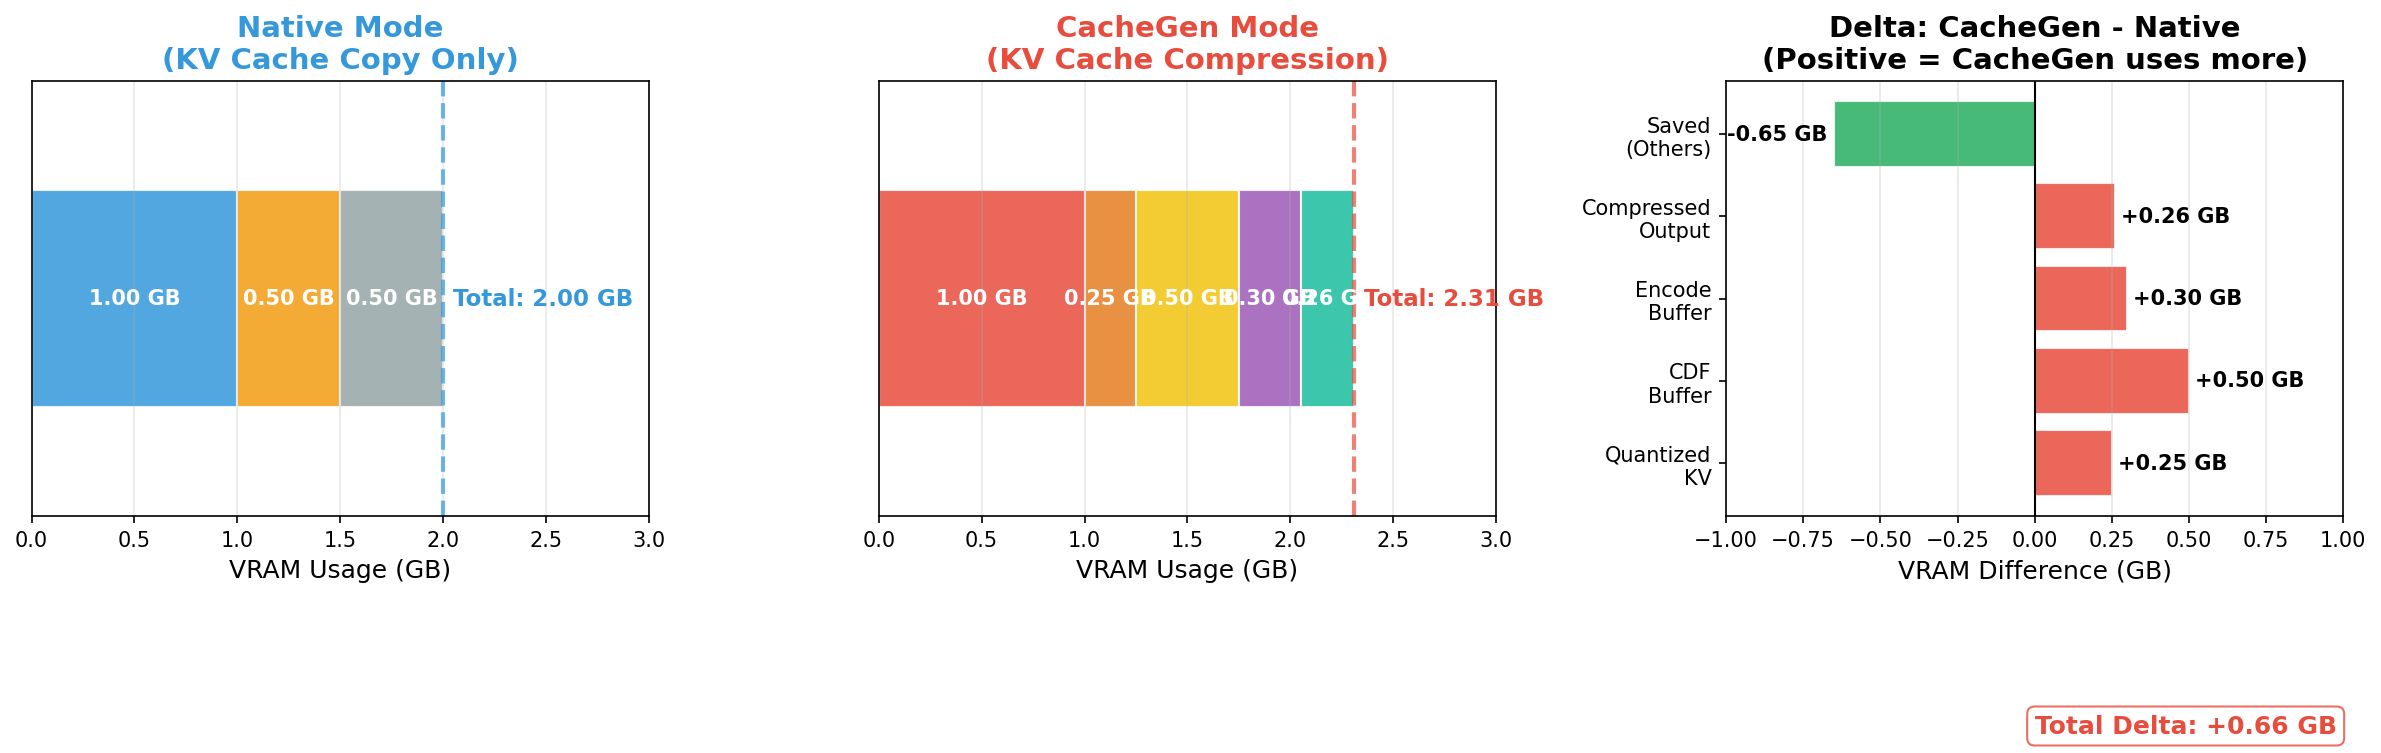
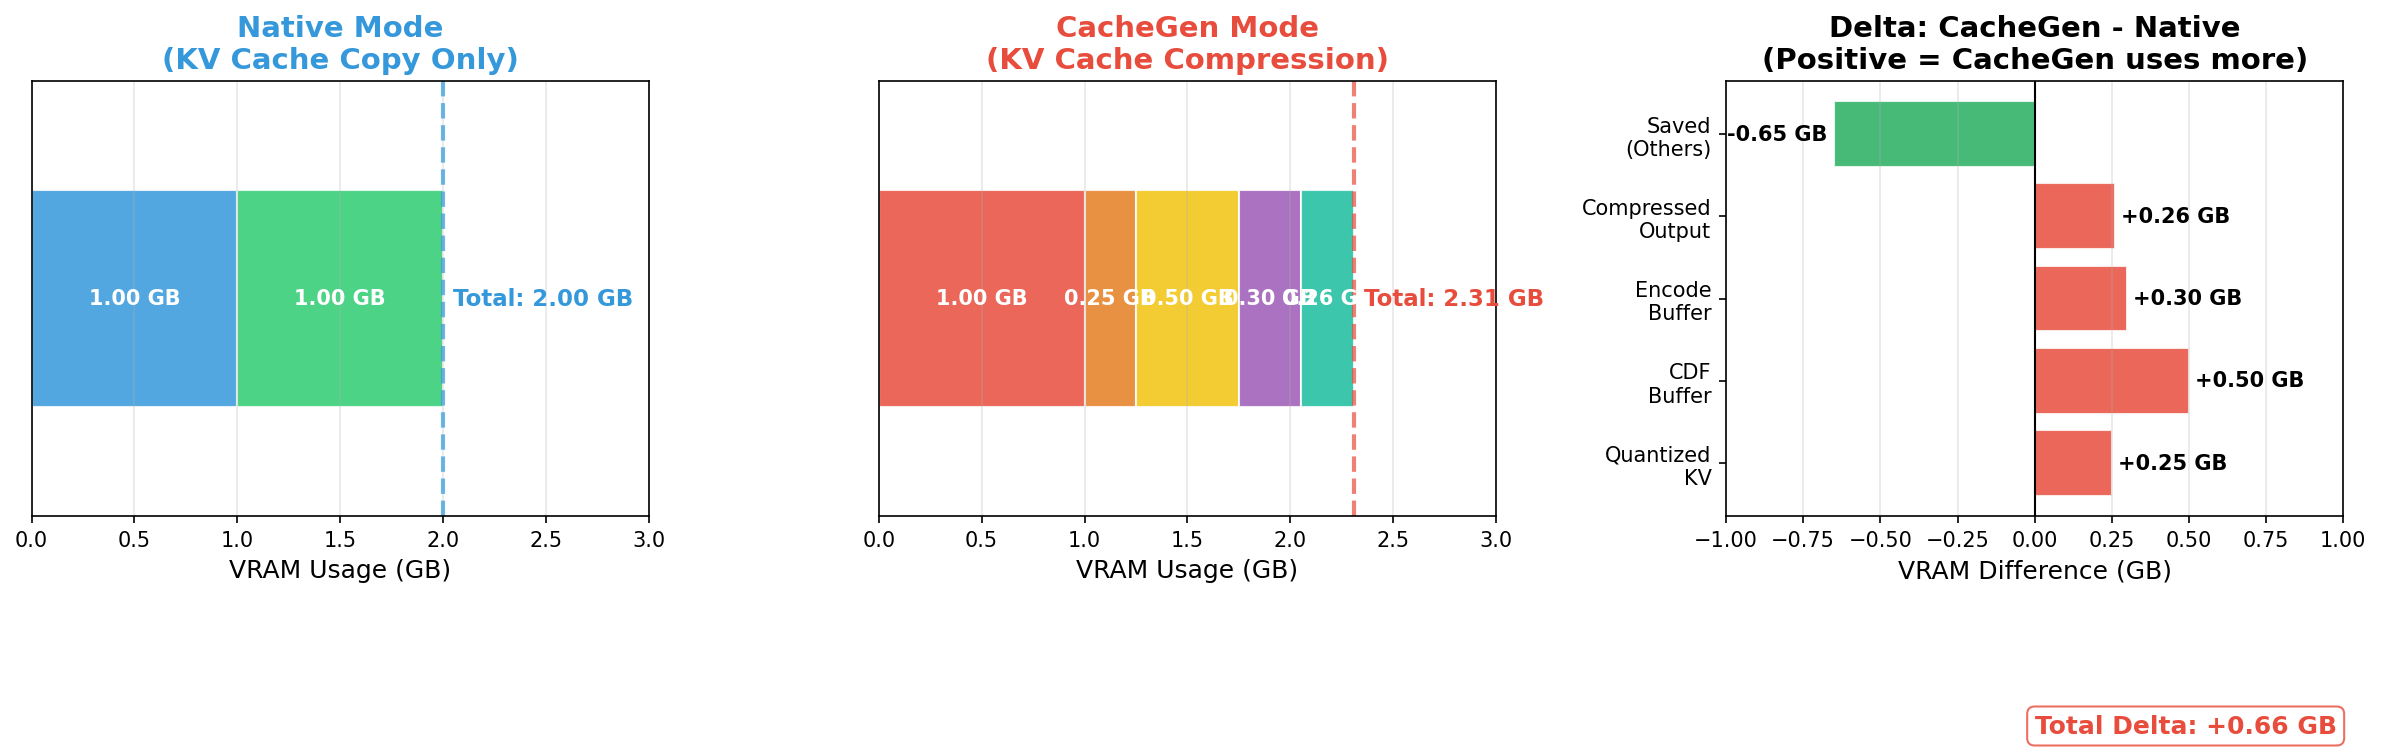
Fix VRAM breakdown visualization
- Native mode now correctly shows KV Cache (Original) + KV Cache (Clone)
- Removed incorrect temp buffer and other categories
- CacheGen correctly shows compression-only buffers

Changed region(s): [[0.0932, 0.2444, 0.1865, 0.5498]]

diff --git a/tkdgjs/experiment/visualize_vram_breakdown.py b/tkdgjs/experiment/visualize_vram_breakdown.py
@@ -11,12 +11,12 @@ import numpy as np
 # VRAM Layout Breakdown based on actual operation
 # ==============================================
 
-# Native mode: Simple KV cache copy (no compression)
+# Native mode: Simple KV cache clone (no compression)
+# Native performs: kv_cache.clone()
+# VRAM usage: 1.0 GB (original) + 1.0 GB (clone) = 2.0 GB peak
 native_layout = {
     'KV Cache\n(Original)': 1.0,
-    'Model\nWeights': 0.0,  # Already loaded in VRAM, not counted in delta
-    'Temp\nCopy Buffer': 0.5,
-    'Other\n(Gradients, etc)': 0.5
+    'KV Cache\n(Clone)': 1.0,  # clone() creates a copy
 }
 
 # CacheGen mode: With compression (from actual VRAM logging)
@@ -34,8 +34,8 @@ cachegen_layout = {
     'KV Cache\n(Original)': 1.0,
     'Quantized\nKV': 0.25,       # 03_quant_value: +0.25 GB
     'CDF\nBuffer': 0.50,          # 05_calculate_cdf: +0.50 GB
-    'Encode\nBuffer': 0.30,      # 04+06+07: +0.30 GB
-    'Compressed\nOutput': 0.26   # Final output minus original
+    'Encode\nBuffer': 0.30,        # 04+06+07: +0.30 GB
+    'Compressed\nOutput': 0.26     # Final output minus original
 }
 
 # Calculate totals
